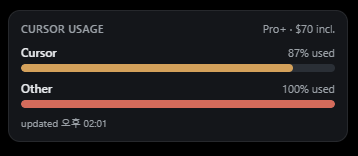
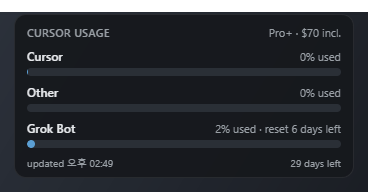
문서 - README에 위젯·설정 창 스크린샷 및 사용법 추가

diff --git a/README.md b/README.md
@@ -4,8 +4,44 @@ Windows 바탕화면용 플로팅 위젯입니다. Cursor **included** 사용량
 
 ![위젯 UI 미리보기](docs/assets/widget-ui.png)
 
+트랙별 included 사용량, 플랜 배지, 결제 주기 갱신까지 남은 일수를 한 창에 모아 봅니다.
+
 스펙: `docs/references/assets/20260729-cursor-usage-widget/system-spec.md`  
 스파이크: `python scripts/spike_usage.py`
+
+## 화면과 사용법
+
+### 위젯
+
+![위젯 본체 화면](docs/assets/widget-ui.png)
+
+- **위치 이동** — 헤더·푸터·여백을 잡고 드래그하면 창이 따라옵니다. 놓은 자리는 바로 저장되어 다음 실행에도 이어집니다.
+- **플랜 배지** — 헤더 오른쪽에 플랜 이름과 included 한도를 `Pro+ · $70 incl.` 형태로 적습니다.
+- **트랙 읽기** — 진행바는 included 소진율입니다. 70% 이상이면 주황, 90% 이상이면 빨강으로 바뀝니다.
+  - `Cursor` — Cursor 트랙 사용량
+  - `Other` — 그 밖 트랙 사용량
+  - `Grok Bot` — 별도 한도가 잡혀 있을 때만 나타나고, 자체 리셋까지 남은 기간을 함께 적습니다.
+- **푸터** — 왼쪽은 상태(`updated 02:49` / `Cursor 로그인 필요` / `갱신 실패`), 오른쪽은 결제 주기 갱신까지 남은 일수입니다.
+- **자동 갱신** — 5분마다 사용량을 다시 읽습니다.
+
+위젯 아무 곳이나 우클릭하면 메뉴가 열립니다.
+
+![위젯 우클릭 컨텍스트 메뉴](docs/assets/context-menu.png)
+
+- **설정** — 설정 창을 엽니다.
+- **종료** — 위젯을 끕니다.
+- 메뉴 밖을 클릭하거나 `Esc` 를 누르면 그냥 닫힙니다.
+
+### 설정 창
+
+![설정 창 화면](docs/assets/settings-ui.png)
+
+- **상태 배지** — 오른쪽 위에 `정상` / `로그인 필요` / `갱신 실패` 를 표시합니다.
+- **사용량** — 플랜·갱신 잔여일과 트랙별 수치를 위젯과 같은 값으로 나열합니다.
+  - **새로고침** — 지금 바로 사용량을 다시 읽습니다. 받아온 값은 위젯에도 같이 반영됩니다.
+- **Windows 시작 시 자동 실행** — 부팅 시 위젯을 띄웁니다. 항상 `%LOCALAPPDATA%\CursorUsageWidget` 설치본 경로만 등록하므로, `target\debug` exe를 직접 켜도 시작프로그램이 깨지지 않습니다. (개발 모드에서는 끌 수 없게 잠기고 안내 문구가 뜹니다.)
+- **항상 다른 창 위에 표시** — 끄면 일반 창처럼 동작해 다른 창이 위젯 위로 올라올 수 있습니다.
+- **닫기** — 설정 창만 숨깁니다. 위젯은 계속 떠 있습니다. `Esc` 도 같은 동작입니다.
 
 ## 일반 사용자 (추천)
 
@@ -13,10 +49,7 @@ Windows 바탕화면용 플로팅 위젯입니다. Cursor **included** 사용량
 2. 처음 한 번만 릴리스 빌드·설치가 진행되고, 이후에는  
    `%LOCALAPPDATA%\CursorUsageWidget\cursor-usage-widget.exe` 가 바로 실행됩니다.
 3. 바탕화면에 **Cursor Usage Widget** 바로가기도 만들어 둡니다.
-4. 위젯에서 **우클릭 → 시작프로그램** 으로 부팅 시 자동 실행을 켤 수 있습니다.  
-   (항상 위 설치 경로만 등록하므로, `target\debug` exe를 직접 켜도 시작프로그램이 깨지지 않습니다.)
-
-5. **우클릭 → 항상 위에 표시** 를 끄면 일반 창처럼 동작해 다른 창이 위로 올라올 수 있습니다.
+4. 부팅 시 자동 실행과 항상 위에 표시는 **우클릭 → 설정** 에서 켜고 끕니다. ([설정 창](#설정-창) 참고)
 
 `target\debug\*.exe` 를 찾아 실행하면 **개발용**이라 화면이 비어 보이거나 안내 창만 뜹니다. 사용하지 마세요.
 
